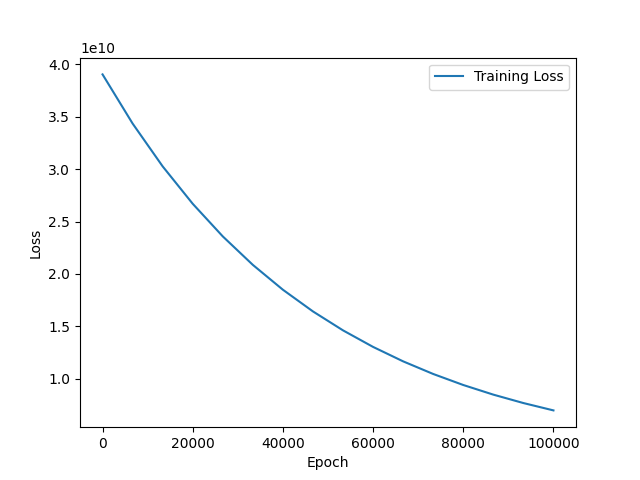
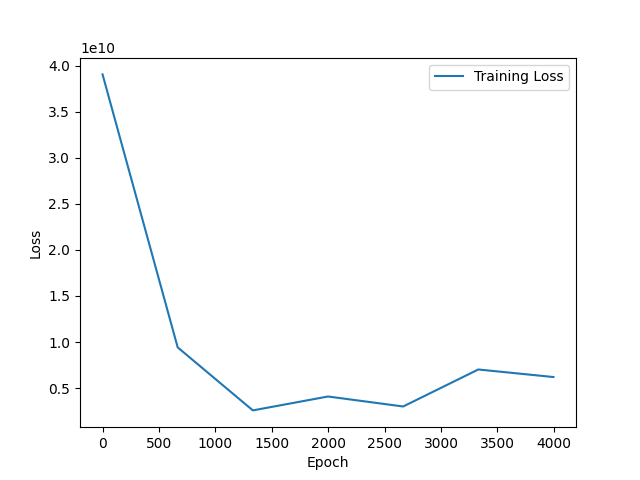
house-prices: E3996 L6207612928.0 MLP being trained

diff --git a/house_prices/house.py b/house_prices/house.py
@@ -60,22 +60,26 @@ class Model(nn.Module):
     def __init__(self):
         super().__init__()
         N = len(INPUTS)
-        self.fc1 = nn.Linear(N, 1)
+        self.fc1 = nn.Linear(len(INPUTS), N)
+        self.fc2 = nn.Linear(N, N)
+        self.fc3 = nn.Linear(N, 1)
 
     def forward(self, x):
-        x = self.fc1(x)
+        x = F.relu(self.fc1(x))
+        x = self.fc2(x)
+        x = self.fc3(x)
         return x
 
 
 model = Model()
 criterion = nn.MSELoss()
-optimizer = optim.SGD(model.parameters(), lr=0.000005)
+optimizer = optim.SGD(model.parameters(), lr=0.00000005)
 
 epochs, losses = [], []
 best_loss = float("inf")
 best_epoch = 0
 
-EPOCHS = 100000
+EPOCHS = 10000
 PATIENCE = 0
 CHECKPOINTS = 15
 for epoch in range(EPOCHS):
@@ -103,11 +107,9 @@ print(f"{best_epoch=}", f"{best_loss=}")
 submission = pd.DataFrame()
 submission["Id"] = test_data.Id
 with torch.no_grad():
-    X_test = pipeline(test_data[INPUTS])
-    print(model(torch.tensor(X_test.to_numpy(), dtype=torch.float32)))
-    submission["SalePrice"] = model(
-        torch.tensor(X_test.to_numpy(), dtype=torch.float32)
-    )
+    X_test = torch.tensor(pipeline(test_data).to_numpy(), dtype=torch.float32)
+    print(model(X_test))
+    submission["SalePrice"] = model(X_test)
 submission.to_csv("/kaggle/working/submission.csv", index=False)
 
 if not SUBMIT:
